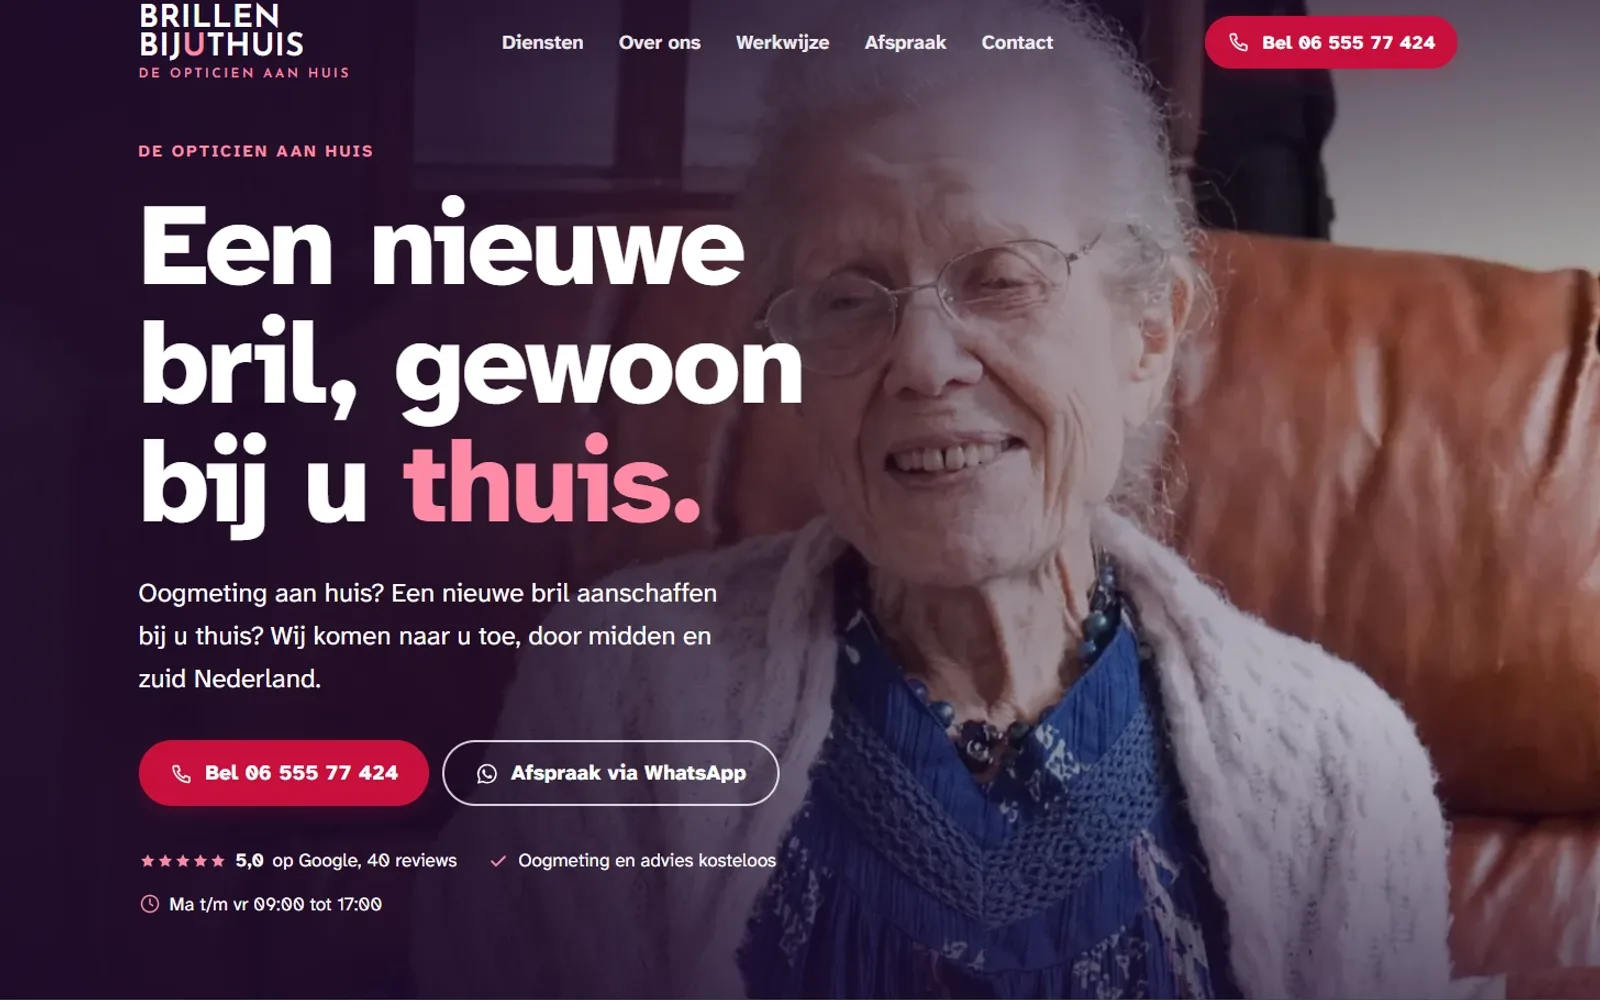
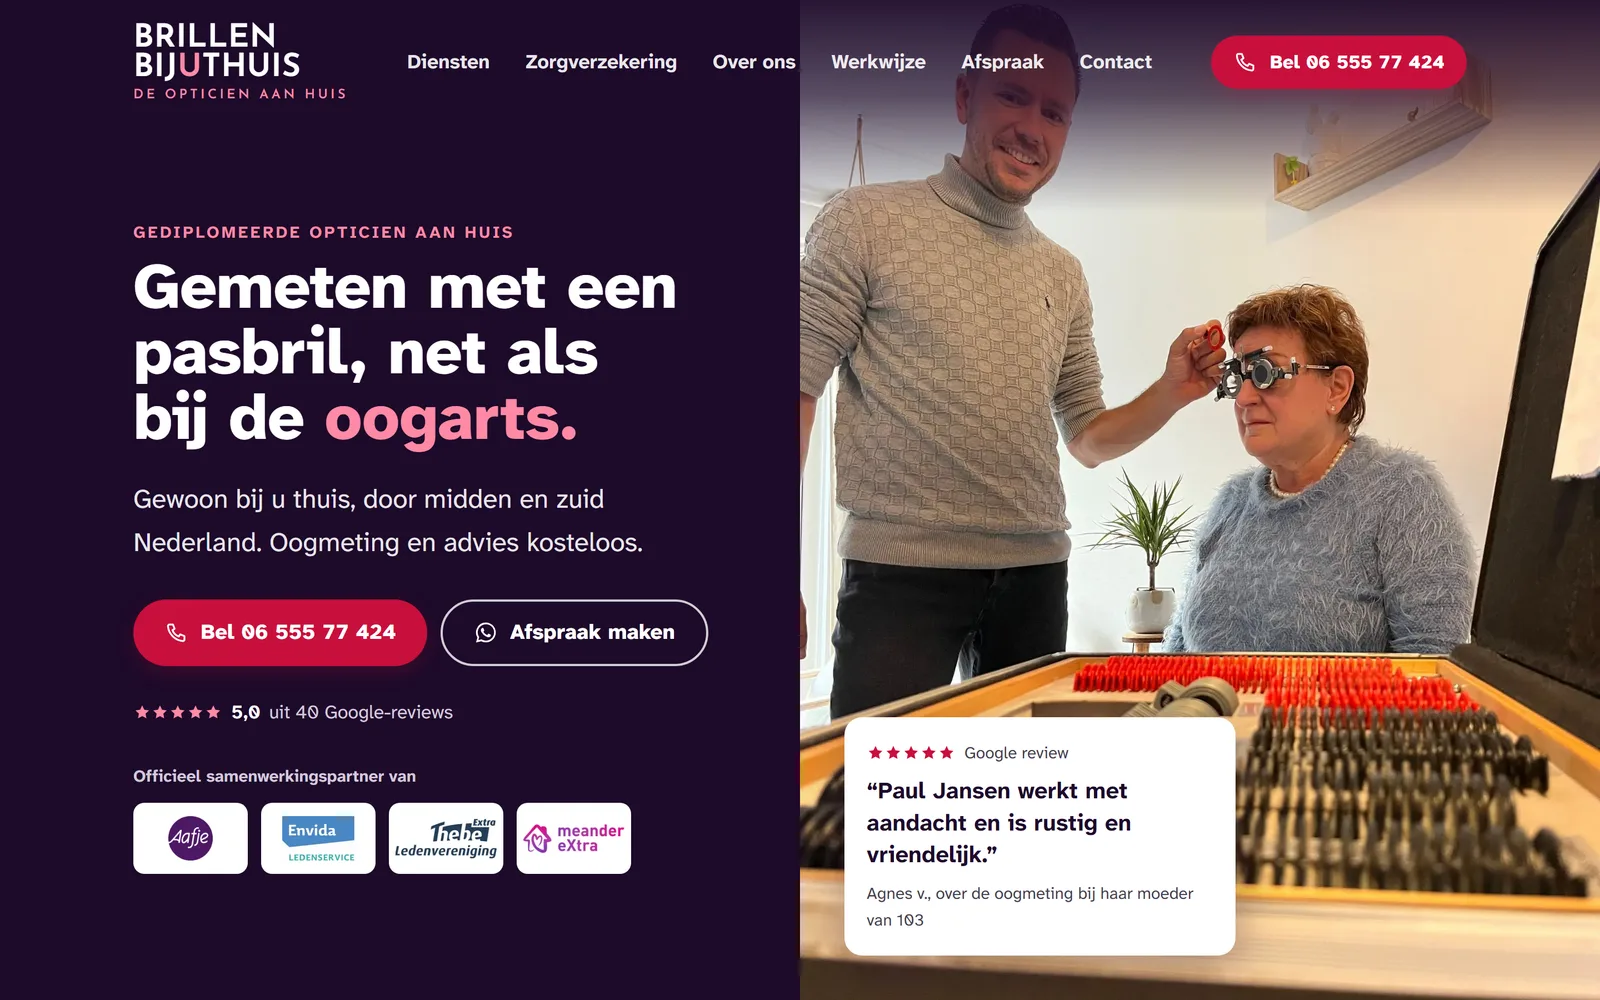
Brillen bij u thuis live, drie nieuwe projecten binnenkort live
- Brillen bij u thuis staat live op brillenbijuthuis.nl, met een verse
  schermafbeelding en zonder strepen.
- Hajdari Boot en Polyester Service, Teakhuis en Het Handelshuis erbij
  als binnenkort live. De demobalk bovenaan is van de beelden gesneden.

diff --git a/src/data/site.ts b/src/data/site.ts
@@ -346,14 +346,13 @@ export const projecten = [
     sleutel: 'brillen-bij-u-thuis',
     stack: [] as string[],
     naam: 'Brillen bij u thuis',
-    domein: 'binnenkort online',
-    url: null as string | null,
+    domein: 'brillenbijuthuis.nl',
+    url: 'https://brillenbijuthuis.nl',
     soort: 'Website',
-    status: 'preview' as const,
     tekst:
       'De opticien aan huis. Oogmeting en advies bij mensen thuis, door midden en zuid Nederland, voor wie niet makkelijk naar een winkel kan.',
-    feit: 'Binnenkort live',
-    alt: 'De nieuwe website van Brillen bij u thuis, de opticien aan huis.',
+    feit: 'Midden en zuid Nederland',
+    alt: 'De website van Brillen bij u thuis, de opticien aan huis.',
   },
   {
     sleutel: 'zus-en-zo',
@@ -380,7 +379,46 @@ export const projecten = [
       'Gezellige lunchroom in winkelstraat Hof van den Houte in Etten-Leur. Koffie, lekkernijen, lunch en op vrijdag burgers, met twee terrassen en een grote speelhoek.',
     feit: 'Binnenkort live',
     alt: 'De nieuwe website van lunchroom Donker & Blond in Etten-Leur.',
+  },  {
+    sleutel: 'hajdari-boten',
+    stack: [] as string[],
+    naam: 'Hajdari Boot en Polyester Service',
+    domein: 'binnenkort online',
+    url: null as string | null,
+    soort: 'Website',
+    status: 'preview' as const,
+    tekst:
+      'Boot- en polyesterservice in Kerkdriel. Schadeherstel, lakwerk, polijsten, onderwaterschip en polyesterwerk, met schade doorgeven via de site.',
+    feit: 'Binnenkort live',
+    alt: 'De nieuwe website van Hajdari Boot en Polyester Service in Kerkdriel.',
   },
+  {
+    sleutel: 'teakhuis',
+    stack: [] as string[],
+    naam: 'Teakhuis',
+    domein: 'binnenkort online',
+    url: null as string | null,
+    soort: 'Website met webshop',
+    status: 'preview' as const,
+    tekst:
+      'Handgemaakte teakhouten meubels van duurzaam hout. Kiezen uit de collectie of een meubel op maat laten tekenen, zonder meerprijs.',
+    feit: 'Binnenkort live',
+    alt: 'De nieuwe website van Teakhuis, teakhouten meubels op maat.',
+  },
+  {
+    sleutel: 'het-handelshuis',
+    stack: [] as string[],
+    naam: 'Het Handelshuis',
+    domein: 'binnenkort online',
+    url: null as string | null,
+    soort: 'Website',
+    status: 'preview' as const,
+    tekst:
+      'Meubelwinkel in Kaatsheuvel met 1500 m² aan hoekbanken, bankstellen, relaxstoelen en mango houten meubels. Veel op voorraad en direct mee.',
+    feit: 'Binnenkort live',
+    alt: 'De nieuwe website van Het Handelshuis in Kaatsheuvel.',
+  },
+
 ];
 
 /**
